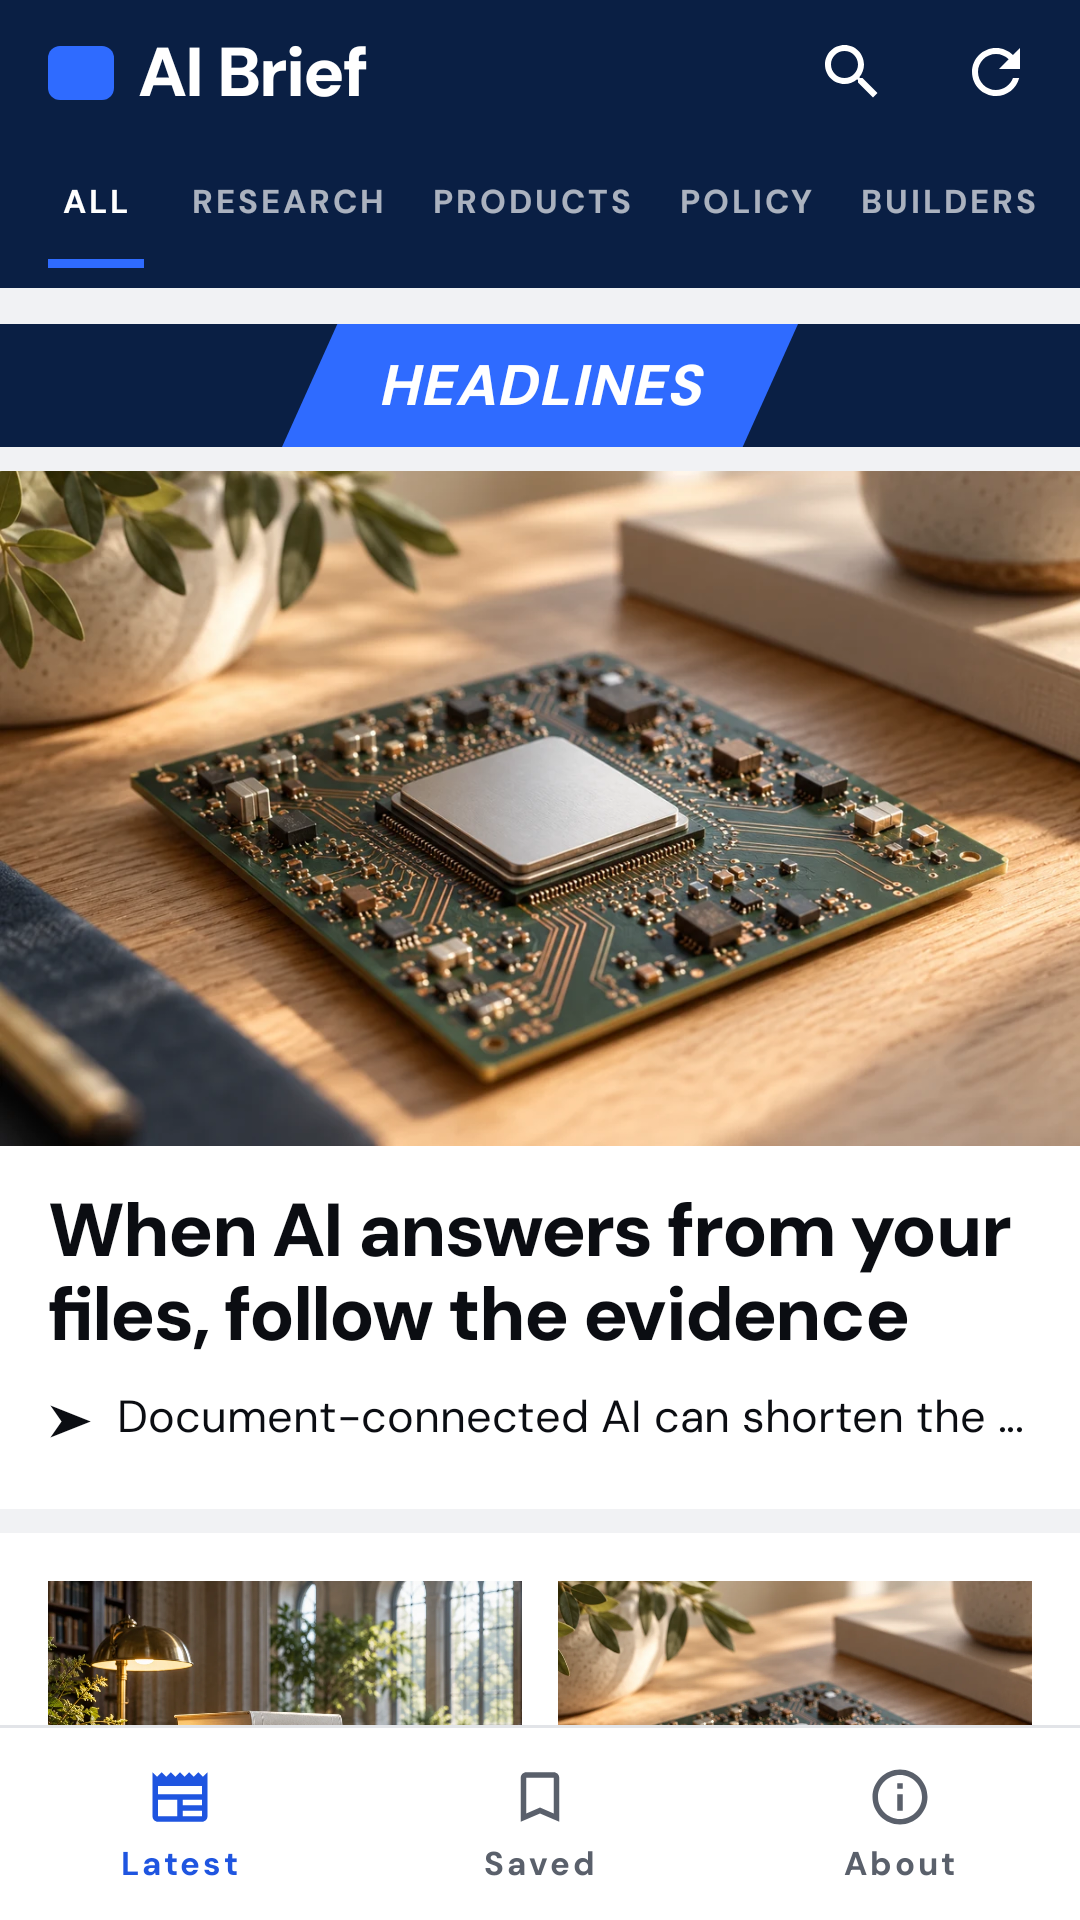
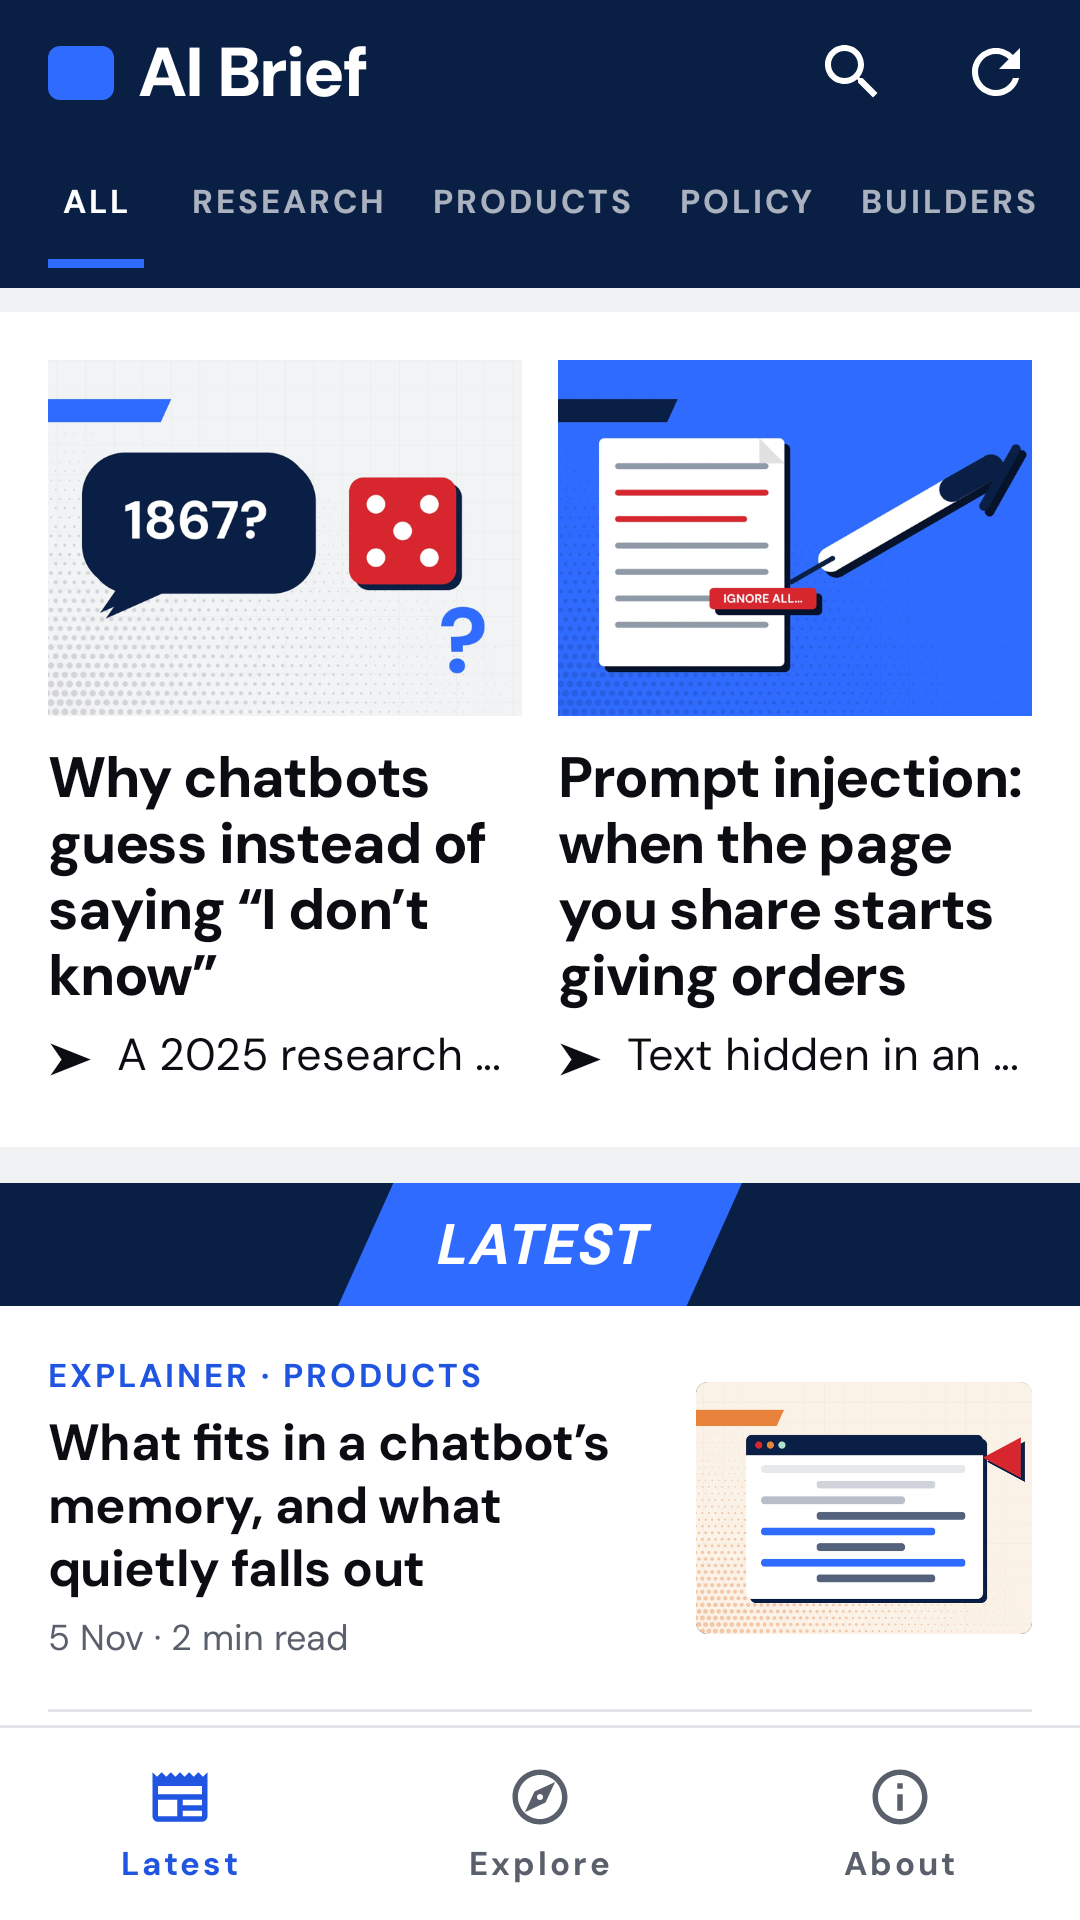
Play screenshots of the redesign, snapshots with real covers, notes for later runs
The five Play listing screenshots are retaken from the redesigned app with
the real published covers: the front page, a story in the reader, more
stories, the new Explore tab (replacing Saved) and a guide in dark mode.
The reader shot uses our own illustration, so no third-party festival
marks appear in the listing.

scripts/render-snapshots.sh now draws each story's actual cover from
content/media instead of the placeholder art, so a design review shows
what readers will see. Store snapshots carry review ratings.

CLAUDE.md records the new story type, series, extras, cover script,
Explore tab and the owner's preference for small, frequent releases.

Claude-Session: https://claude.ai/code/session_012NCG7QMi81QNxyfdgNWsyL

diff --git a/CLAUDE.md b/CLAUDE.md
@@ -49,7 +49,14 @@ A cold build of the gates takes about 3 minutes.
 - Workflow status: query it with the GitHub MCP `actions_list` tool. Unauthenticated `curl` polling of `api.github.com` from the container returns nothing useful, so a Monitor built on it stays silent. The Android run takes about 6 minutes.
 - Play artifact: `python3 scripts/check-play-artifact.py app/build/outputs/apk/internalSharing/app-internalSharing.apk` checks that no self-update code or install permission is present.
 
+## Working style the owner wants
+
+- Ship in small, frequent merges so changes are visible on the phone; do not batch 20+ minutes of work. Pre-launch: speed over polish.
+- Images the owner pastes inline are not saved as files; ask for files when they matter.
+
 ## Owner-only blockers (already reported, do not re-notify)
+
+- `AA_API_KEY` secret for daily model rankings; polls / most read / comments need a server and a privacy-policy + Data safety change (owner decision pending).
 
 - Play Console account verification, upload key, and the four `PLAY_*` repository secrets for **Build signed Play bundle**. See `PLAY_RELEASE_CHECKLIST.md`.
 - GitHub Pages is not enabled, so the privacy and contact links point to `PRIVACY.md` and `CONTACT.md` on GitHub.
@@ -57,9 +64,13 @@ A cold build of the gates takes about 3 minutes.
 ## Design and publishing (November 2026 redesign)
 
 - The look is a strict design system: `docs/DESIGN_SYSTEM.md`. Colours, fonts, type, shapes and spacing live only in `ui/theme/Theme.kt`; `DesignRulesTest` fails the build on raw values elsewhere. Add a token instead of an exception.
-- Story types (`StoryFormat`: NEWS, BREAKING, EXPLAINER, OPINION, GUIDE, SPONSORED) each have one card and one reader header. Front-page order is `FeedLayout.compose`, covered by `FeedLayoutTest`.
+- Story types (`StoryFormat`: NEWS, BREAKING, EXPLAINER, OPINION, GUIDE, SPONSORED, REVIEW) each have one card and one reader header. Reviews carry `rating` 1–5. Front-page order is `FeedLayout.compose`, covered by `FeedLayoutTest`: bleed lead (headline on the picture), pair, "Latest" four, designed card, rankings, series rails, radar, reviews, opinion, more stories, guides.
+- Posts can carry `series` ({id, title, part, of}), `imageCredit`, and `video` blocks (still + play button; opens outside the app).
+- Data modules live under `extras` in `content/posts.json` (`rankings`, `radar`), refreshed by `scripts/update-extras.py` and `.github/workflows/update-extras.yml` (daily). Rankings need the `AA_API_KEY` secret (owner); `--from-page` reads the public leaderboard once. Every module must name its source.
+- Story covers: `scripts/editorial-art/covers.py` (flat house style, venv Pillow). Series get their own artwork, never the house style. Only use photos we can license; the owner rejected cut-out photo collages.
+- Bottom tabs are Latest, Explore (saved stories, series, rankings, radar), About. Saved is a section of Explore.
 - The owner publishes from the **Publish a story** issue form (`.github/ISSUE_TEMPLATE/publish-story.yml` → `publish-from-issue.yml` → `scripts/issue_post.py` → `scripts/publish-post.py`). Editing the issue revises the story; Action = Unpublish removes it. Owner-only.
-- See screens without a device: `scripts/render-snapshots.sh` (Paparazzi in a throwaway copy, about 3 minutes). Read PNGs with a venv Pillow; the system Pillow is broken.
+- See screens without a device: `SNAPSHOT_PYTHON=<venv>/bin/python scripts/render-snapshots.sh <out>` (Paparazzi in a throwaway copy, about 3 minutes; covers load from `content/media`). Read PNGs with a venv Pillow; the system Pillow is broken.
 - Play screenshots come from `StoreSnaps` in the same script (`store-*.png`, 1080 × 1920 RGB, real edition only, never invented headlines). Copy them to `docs/play/screenshots` after a visible design change. Paparazzi shrinks to 1000 px unless `useDeviceResolution = true`.
 - Sponsored posts must name a sponsor (parser drops them otherwise) and never lead. Opinion must be signed by a person.
 
